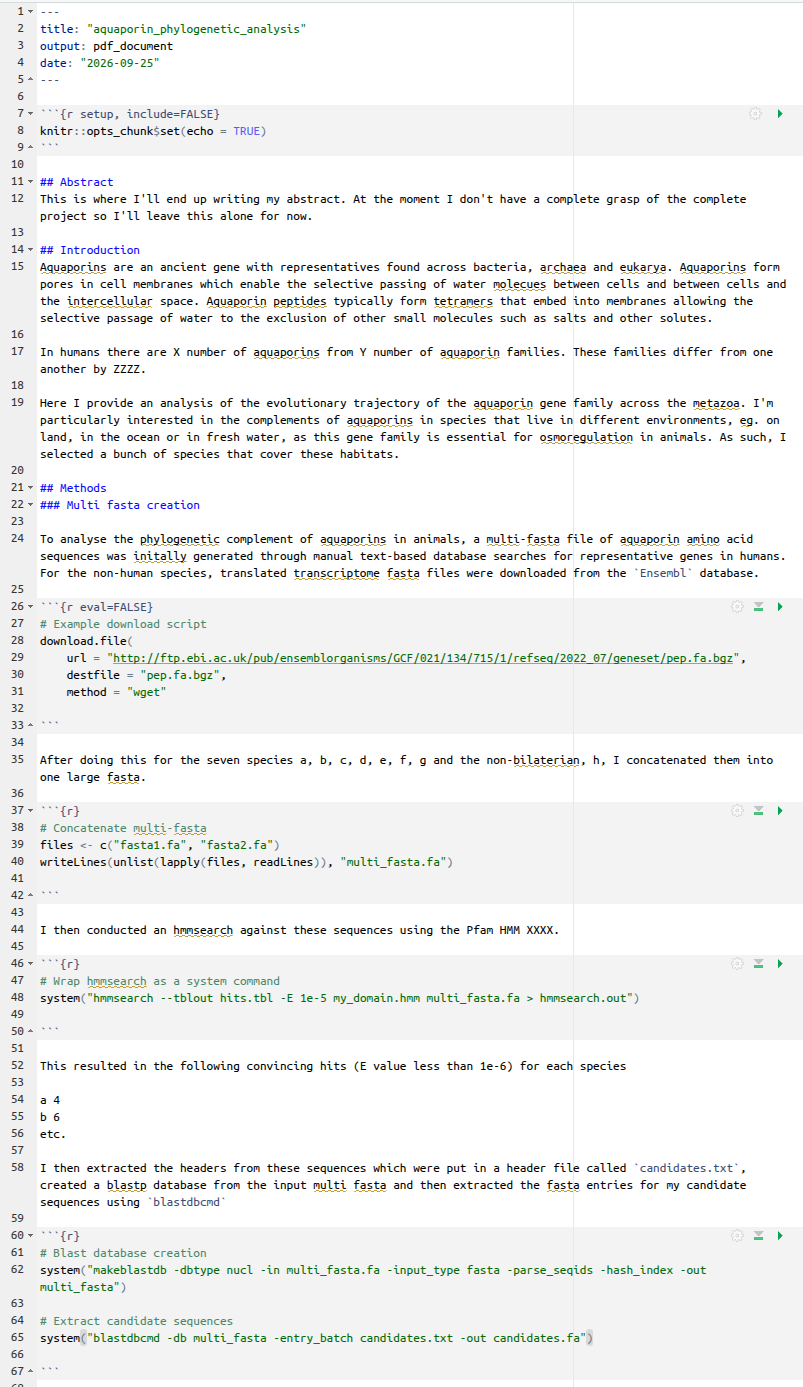
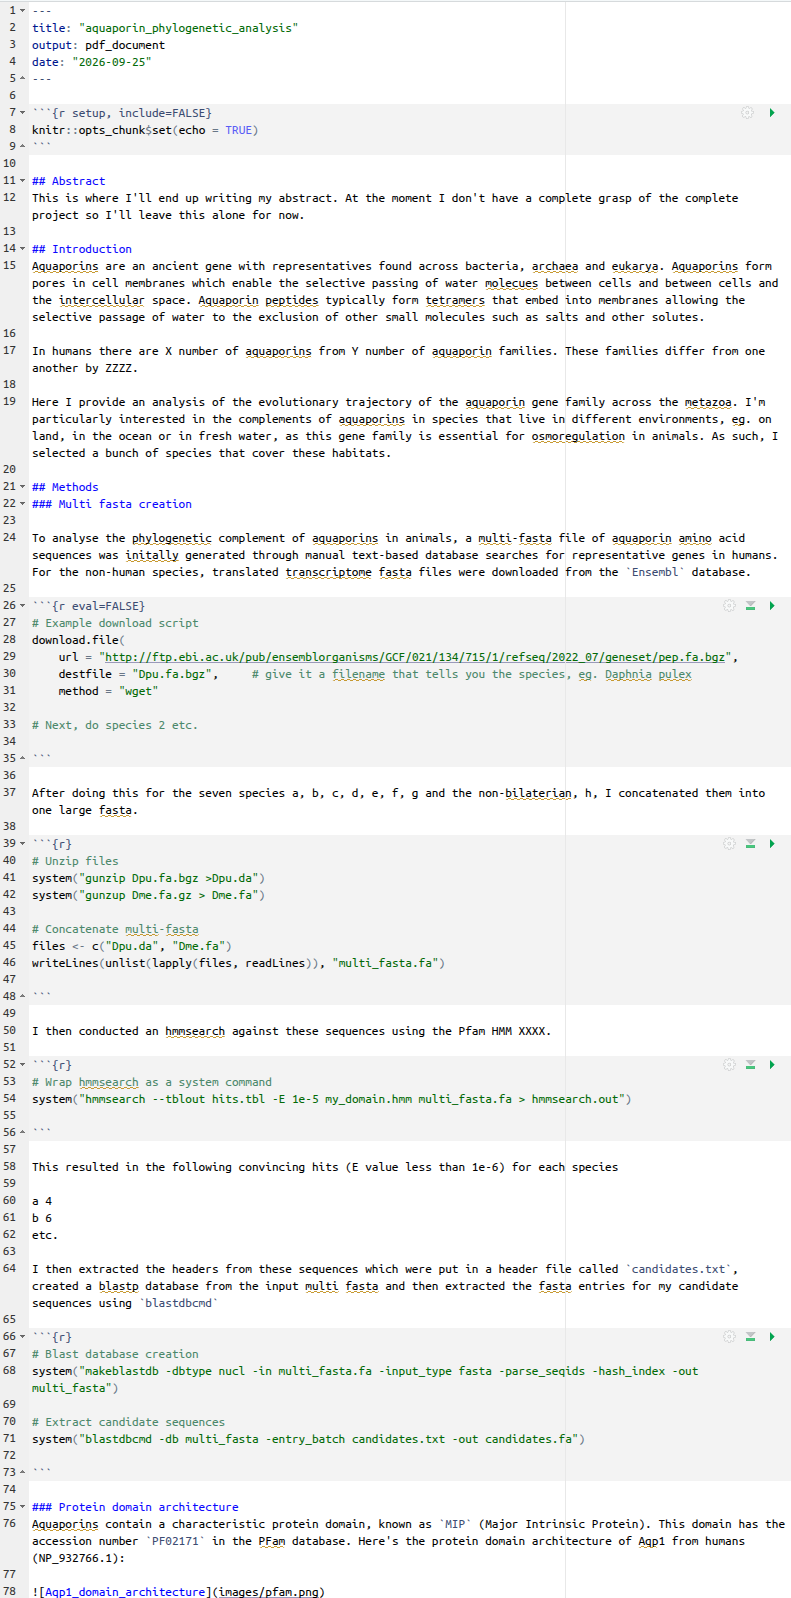
tut_5 update

diff --git a/Tutorial_5/05_fasta.md b/Tutorial_5/05_fasta.md
@@ -2,11 +2,11 @@
 
 Today is all about populating your multi-fasta. By this stage your fasta should have entries for every representative sequence from your particular gene family found in humans, but as the goal of our project is to describe the evolution of our gene family across the metazoa, we also need to sample sequences from representative species from other phylogenetic lineages.
 
-![tree](images/tree.jpg)
+![tree](images/tree.png)
 
-This phylogenetic tree describes the relationship between the three major bilaterian clades `Lophotrochozoa, Ecdysozoa and Deuterotomia,` as well as the non-bilaterian clades `Cnidaria, Profera and Placozoa`. For whatever reason, in this tree `Ctenophora` is conspicuously missing.
+This phylogenetic tree describes the relationship between the three major bilaterian clades *Lophotrochozoa, Ecdysozoa* and *Deuterotomia*, as well as the non-bilaterian clades *Cnidaria, Profera* and *Placozoa*. For whatever reason, in this tree *Ctenophora* is conspicuously missing.
 
-Our goal today is to choose two representative species from each of the three bilaterian clades, as well as one non-bilaterian, and to isolate any members of your particular gene family that may exist in those species. To produce a robust phylogenetic tree of your gene family, more is always better. If you have time, I'd encourage you to sample as many species as possible but for now, aim for two from each clade for a total of eight species (2x Lophotrochozoa, 2x Ecdysozoa, 2x Deuterostomia, 1x non-bilaterian and your human orthologues).
+Our goal today is to choose two representative species from each of the three bilaterian clades, as well as one non-bilaterian, and to isolate any members of your particular gene family that may exist in those species. To produce a robust phylogenetic tree of your gene family, more is always better. If you have time, I'd encourage you to sample as many species as possible but for now, aim for two from each clade for a total of eight species (2x *Lophotrochozoa*, 2x *Ecdysozoa*, 2x *Deuterostomia*, 1x non-bilaterian and your human orthologues).
 
 ## Methodology
 
@@ -62,6 +62,8 @@ There are many ways in which you could construct a workflow to achieve the aim o
 
 ## Maintain your RMarkdown document
 
-Make sure everything you do is noted in your RMarkdown doc. Here's how mine looks at the moment.
+Make sure everything you do is noted in your RMarkdown doc. Here's how mine looks at the moment. I went with something like Workflow 1 here.
 
 ![rmarkdown](images/rmarkdown.png)
+
+There are a bunch of hints in this screenshot about what you'll need to do to follow the workflow as detailed above. You'll notice that wherever possible, I've gone with native R code but for programs that are written for `bash` not `R`, I've wrapped the execution of the program in a `system()` command.
